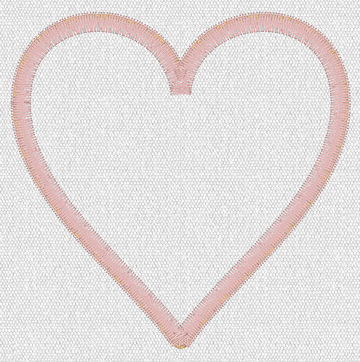
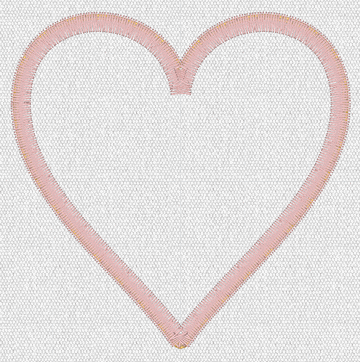
Kit: appliqué regenerated on #985's tack-down with the closed-zigzag cover; rustfmt (#978)
wizards/applique 1,268 -> 1,312 stitches (the cover spaced by its outer edge); cutwork and
patch unchanged from this branch (3,536 and 2,903); compatibility status refreshed.

diff --git a/crates/openstitch-engine/src/wizards/patch.rs b/crates/openstitch-engine/src/wizards/patch.rs
@@ -22,7 +22,11 @@ pub fn commands() -> Vec<CommandSpec> {
             req("ids", "[int]", "Patterns the patch holds"),
             opt("border", "bool", "Sew a satin border (default true)"),
             opt("width", "mm", "Border width 1-10 (default 3)"),
-            opt("density", "lines/mm", "Border density 1-10 (default 4.5), counted along the border's outer edge as on any closed zigzag (PE-DESIGN)"),
+            opt(
+                "density",
+                "lines/mm",
+                "Border density 1-10 (default 4.5), counted along the border's outer edge as on any closed zigzag (PE-DESIGN)",
+            ),
             opt(
                 "distance",
                 "mm",

diff --git a/docs/COMPATIBILITY_STATUS.md b/docs/COMPATIBILITY_STATUS.md
@@ -4,7 +4,7 @@
 
 The tier each [FEATURE_MATRIX.md](FEATURE_MATRIX.md) row and [audit](COMPATIBILITY_AUDIT.md) item has reached in the compatibility harness ([COMPATIBILITY_TESTS.md](COMPATIBILITY_TESTS.md)). A row is only as far as the weakest spec covering it. Tiers, weakest first: internal-regression (our own earlier output or the guide's description), oracle (an independent implementation), reference (PE-DESIGN 11 output supplied by the owner), machine (a sew-out record). "Reference pending" means a spec is ready for a PE-DESIGN file that does not exist yet.
 
-Specs: 495 · pass 495 · fail 0 · error 0 · pending reference 0 · skipped 0.
+Specs: 497 · pass 497 · fail 0 · error 0 · pending reference 0 · skipped 0.
 
 ## By FEATURE_MATRIX row
 
@@ -42,7 +42,7 @@ Specs: 495 · pass 495 · fail 0 · error 0 · pending reference 0 · skipped 0.
 | Line sew types | Running (pitch, run times… | internal-regression | `attribute-ranges` |
 | Line sew types | Running (pitch, run times 1… | reference | `line-running-default`, `line-triple-default`, `run-circle-60` |
 | Line sew types | Zigzag: Sharp Corners and Miter Limit… | reference | `line-zigzag-miter-l-b2-m7`, `line-zigzag-miter-v-b1-m0`, `line-zigzag-miter-v-b1-m1`, `line-zigzag-miter-v-b1-m3`, `line-zigzag-miter-v-b1-m50`, `line-zigzag-miter-v-b2-m0`, `line-zigzag-miter-v-b2-m3`, `line-zigzag-miter-v-b2-m50`, `line-zigzag-miter-v120-b1-m0`, `line-zigzag-miter-v45-b1-m0`, `line-zigzag-miter-v45-b2-m0`, `line-zigzag-miter-v60-b1-m0`, `line-zigzag-miter-v60-b2-m0`, `line-zigzag-miter-v75-b1-m0`, `line-zigzag-miter-v75-b2-m0` |
-| Line sew types | Zigzag: width, density… | reference | `line-zigzag-default`, `line-zigzag-density-max` |
+| Line sew types | Zigzag: width, density… | reference | `line-circle-zigzag-1mm`, `line-circle-zigzag-3mm`, `line-zigzag-default`, `line-zigzag-density-max` |
 | Machine | Brother 64-colour PEC chart mapping… | reference | `thread-match-swatches` |
 | Programmable Stitch Creator | Import of the user's own… | reference | `deco-fill-1line-100mm`, `deco-fill-1line-offcentre`, `line-motif-zigzag-3pt`, `motif-fill-2pt`, `prog-fill-line-2pt`, `prog-fill-square-4pt` |
 | Region sew types | Concentric circle… | reference | `concentric-circle20`, `concentric-circle30`, `concentric-circle36`, `concentric-circle40-d1p0`, `concentric-circle40-d3p0`, `concentric-circle40-pitch3p0`, `concentric-circle40-start2`, `concentric-circle40`, `concentric-ellipse30x40`, `concentric-ellipse40x30`, `concentric-rect30x40`, `concentric-rect40x30`, `concentric-ring40-hole15`, `concentric-square40`, `concentric-triangle`, `spiral-circle20-pitch3p0`, `spiral-circle40-d1p0`, `spiral-circle40-d3p0`, `spiral-circle40-drag-reverse`, `spiral-circle40-pitch1p0`, `spiral-circle40-pitch2p5`, `spiral-circle40-pitch3p0`, `spiral-circle40-pitch4p0`, `spiral-circle40-start2`, `spiral-circle40`, `spiral-ellipse40x30`, `spiral-rect30x40`, `spiral-rect40x30-drag-reverse`, `spiral-rect40x30`, `spiral-ring40-hole10`, `spiral-ring40-hole15-d1p0`, `spiral-ring40-hole15-offset`, `spiral-ring40-hole15-pitch3p0`, `spiral-ring40-hole15`, `spiral-ring40-hole20`, `spiral-square40-hole16`, `spiral-square40`, `spiral-triangle-d1p0`, `spiral-triangle-wide`, `spiral-triangle` |
@@ -148,6 +148,8 @@ Specs: 495 · pass 495 · fail 0 · error 0 · pending reference 0 · skipped 0.
 | `stitches/line-chain-startend-mid-feed` | pass | reference | — | — | pass | — |
 | `stitches/line-chain-startend-mid-run` | pass | reference | — | — | pass | — |
 | `stitches/line-chain-startend-run` | pass | reference | — | — | pass | — |
+| `stitches/line-circle-zigzag-1mm` | pass | reference | pass | — | pass | — |
+| `stitches/line-circle-zigzag-3mm` | pass | reference | pass | — | pass | — |
 | `stitches/line-e-default` | pass | reference | — | — | pass | — |
 | `stitches/line-e-rect-default` | pass | reference | — | — | pass | — |
 | `stitches/line-motif-zigzag-3pt` | pass | reference | pass | — | pass | — |

diff --git a/examples/sew/README.md b/examples/sew/README.md
@@ -537,7 +537,7 @@ Appliqué, embroidered patch, cutwork and background fill.
 
 #### Appliqué wizard
 
-[`wizards/applique.pes`](wizards/applique.pes) · 100 × 100 mm hoop · 53 × 52.5 mm · 1,268 stitches · 4 trims · about 1.8 min
+[`wizards/applique.pes`](wizards/applique.pes) · 100 × 100 mm hoop · 53 × 52.5 mm · 1,312 stitches · 4 trims · about 1.8 min
 
 A heart as appliqué: material line, stop, position line, stop, tack-down, stop, covering zigzag. Lay the fabric at the first stop, trim it at the second.
 
@@ -547,7 +547,7 @@ Threads, in sewing order: Appliqué material (PEC 62), Appliqué position (PEC 6
 
 #### Embroidered patch wizard
 
-[`wizards/patch.pes`](wizards/patch.pes) · 100 × 100 mm hoop · 62 × 62 mm · 2,862 stitches · 3 trims · about 3.7 min
+[`wizards/patch.pes`](wizards/patch.pes) · 100 × 100 mm hoop · 62 × 62 mm · 2,903 stitches · 3 trims · about 3.8 min
 
 A heart with a satin border and a sewn cutting line outside it, to cut the patch out with scissors.
 
@@ -557,7 +557,7 @@ Threads, in sewing order: 800 Red, 406 Ultra Marine, 406 Ultra Marine.
 
 #### Cutwork wizard
 
-[`wizards/cutwork.pes`](wizards/cutwork.pes) · 100 × 100 mm hoop · 54 × 54 mm · 3,446 stitches · 6 trims · about 4.6 min
+[`wizards/cutwork.pes`](wizards/cutwork.pes) · 100 × 100 mm hoop · 54 × 54 mm · 3,536 stitches · 5 trims · about 4.7 min
 
 A circle cutout: stabilising run, a sewn cut line (the NV880E has no cutwork needles, so cut by hand at the stop), stabiliser run, net fill and covering satin. Use water-soluble stabiliser.
 
